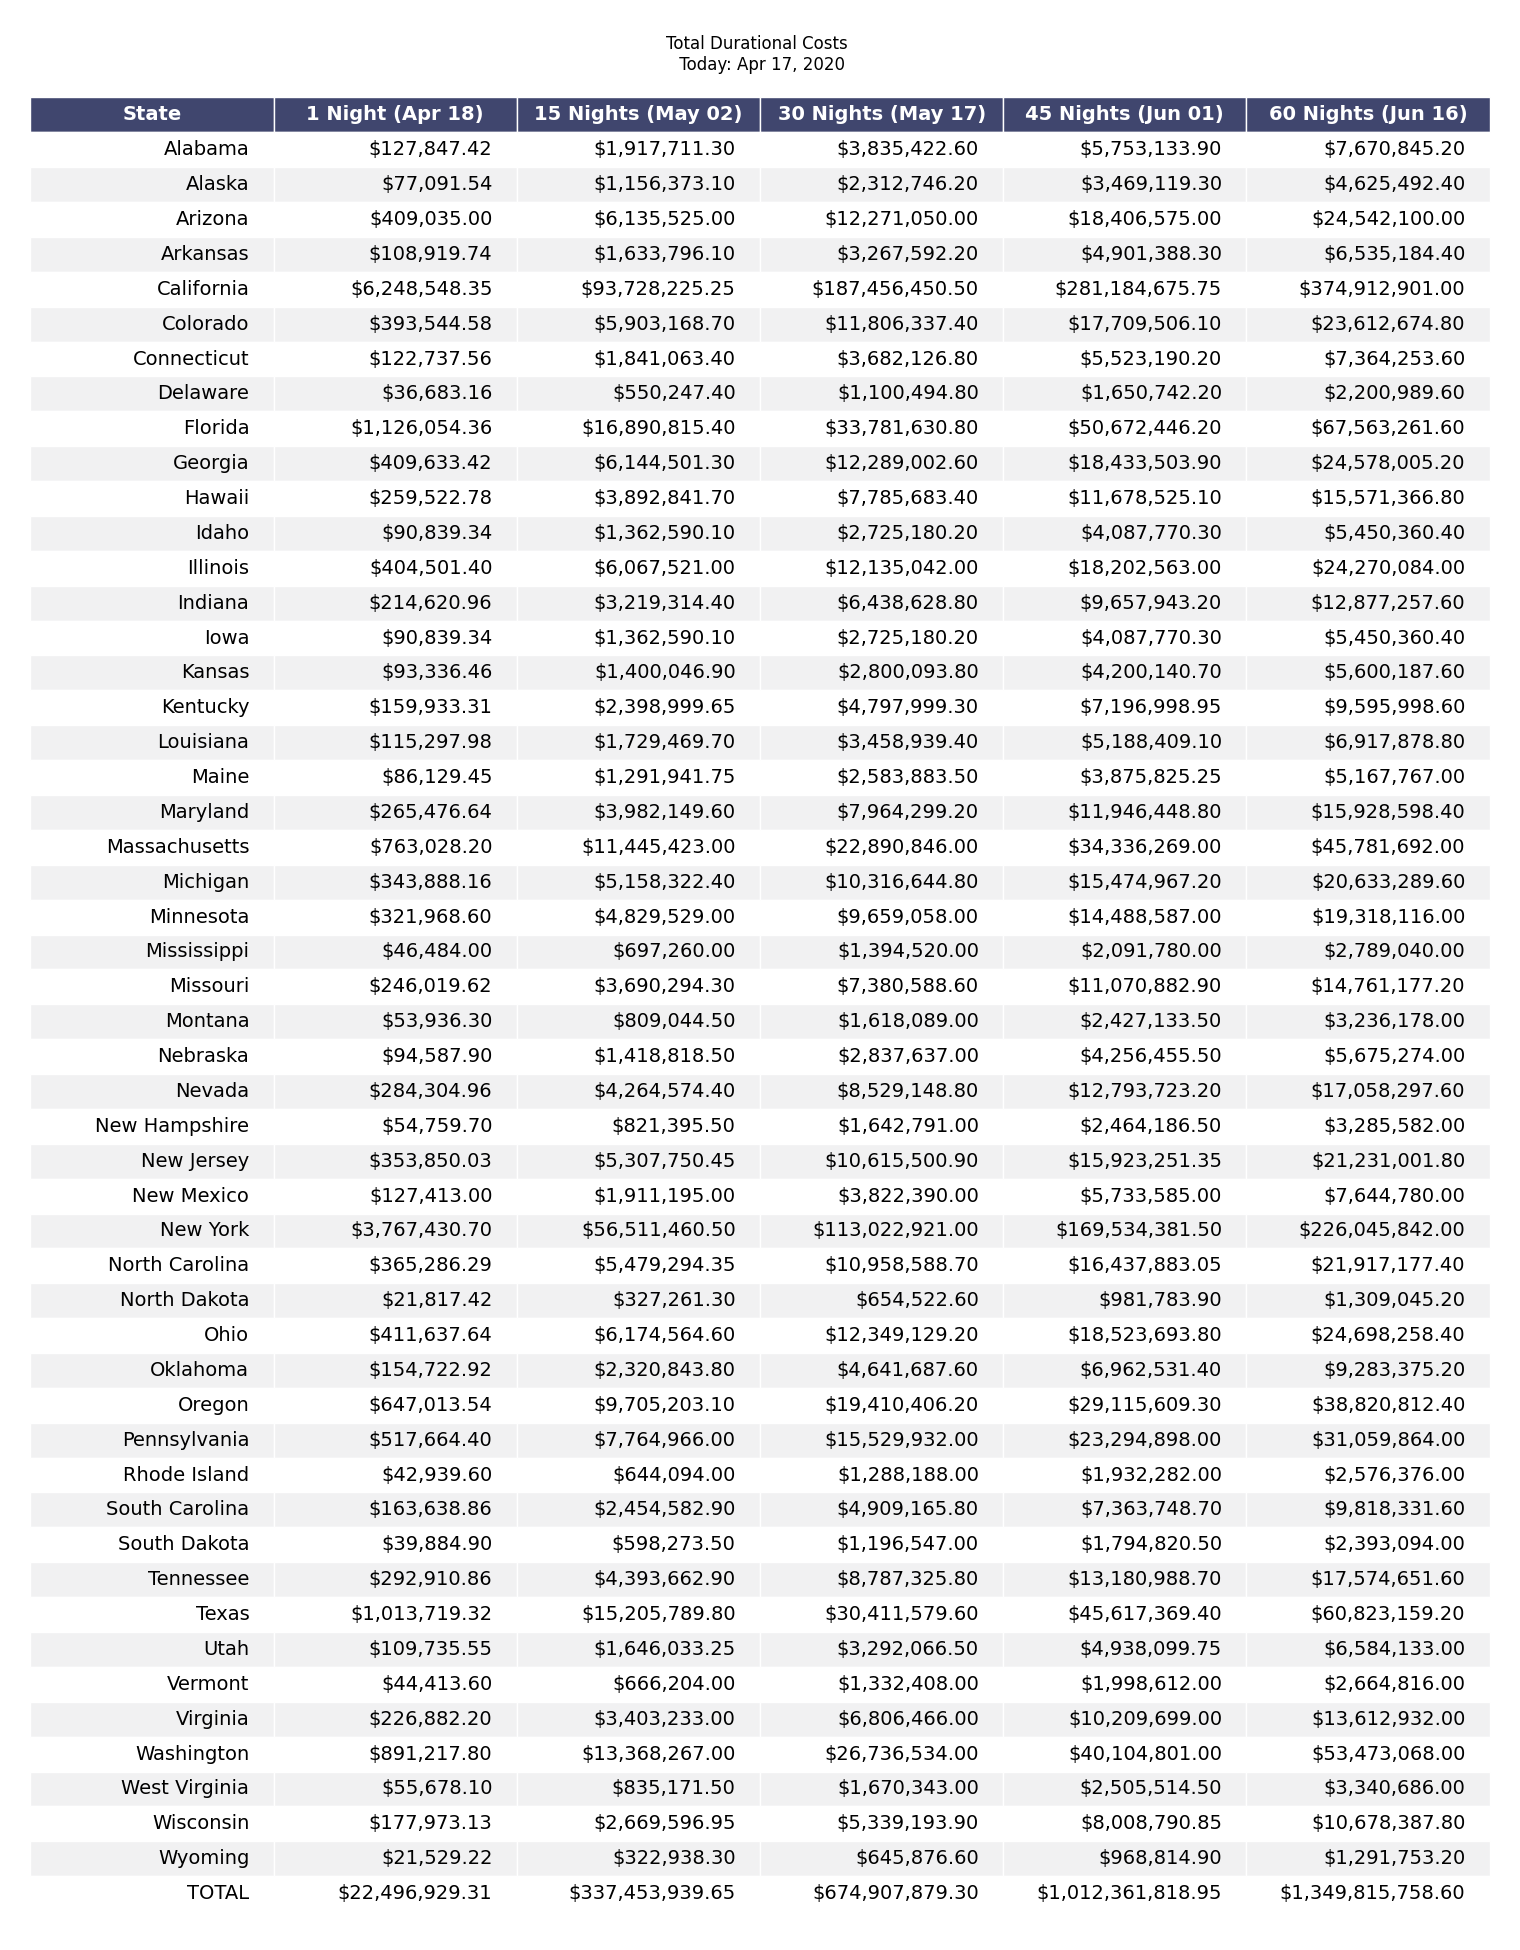
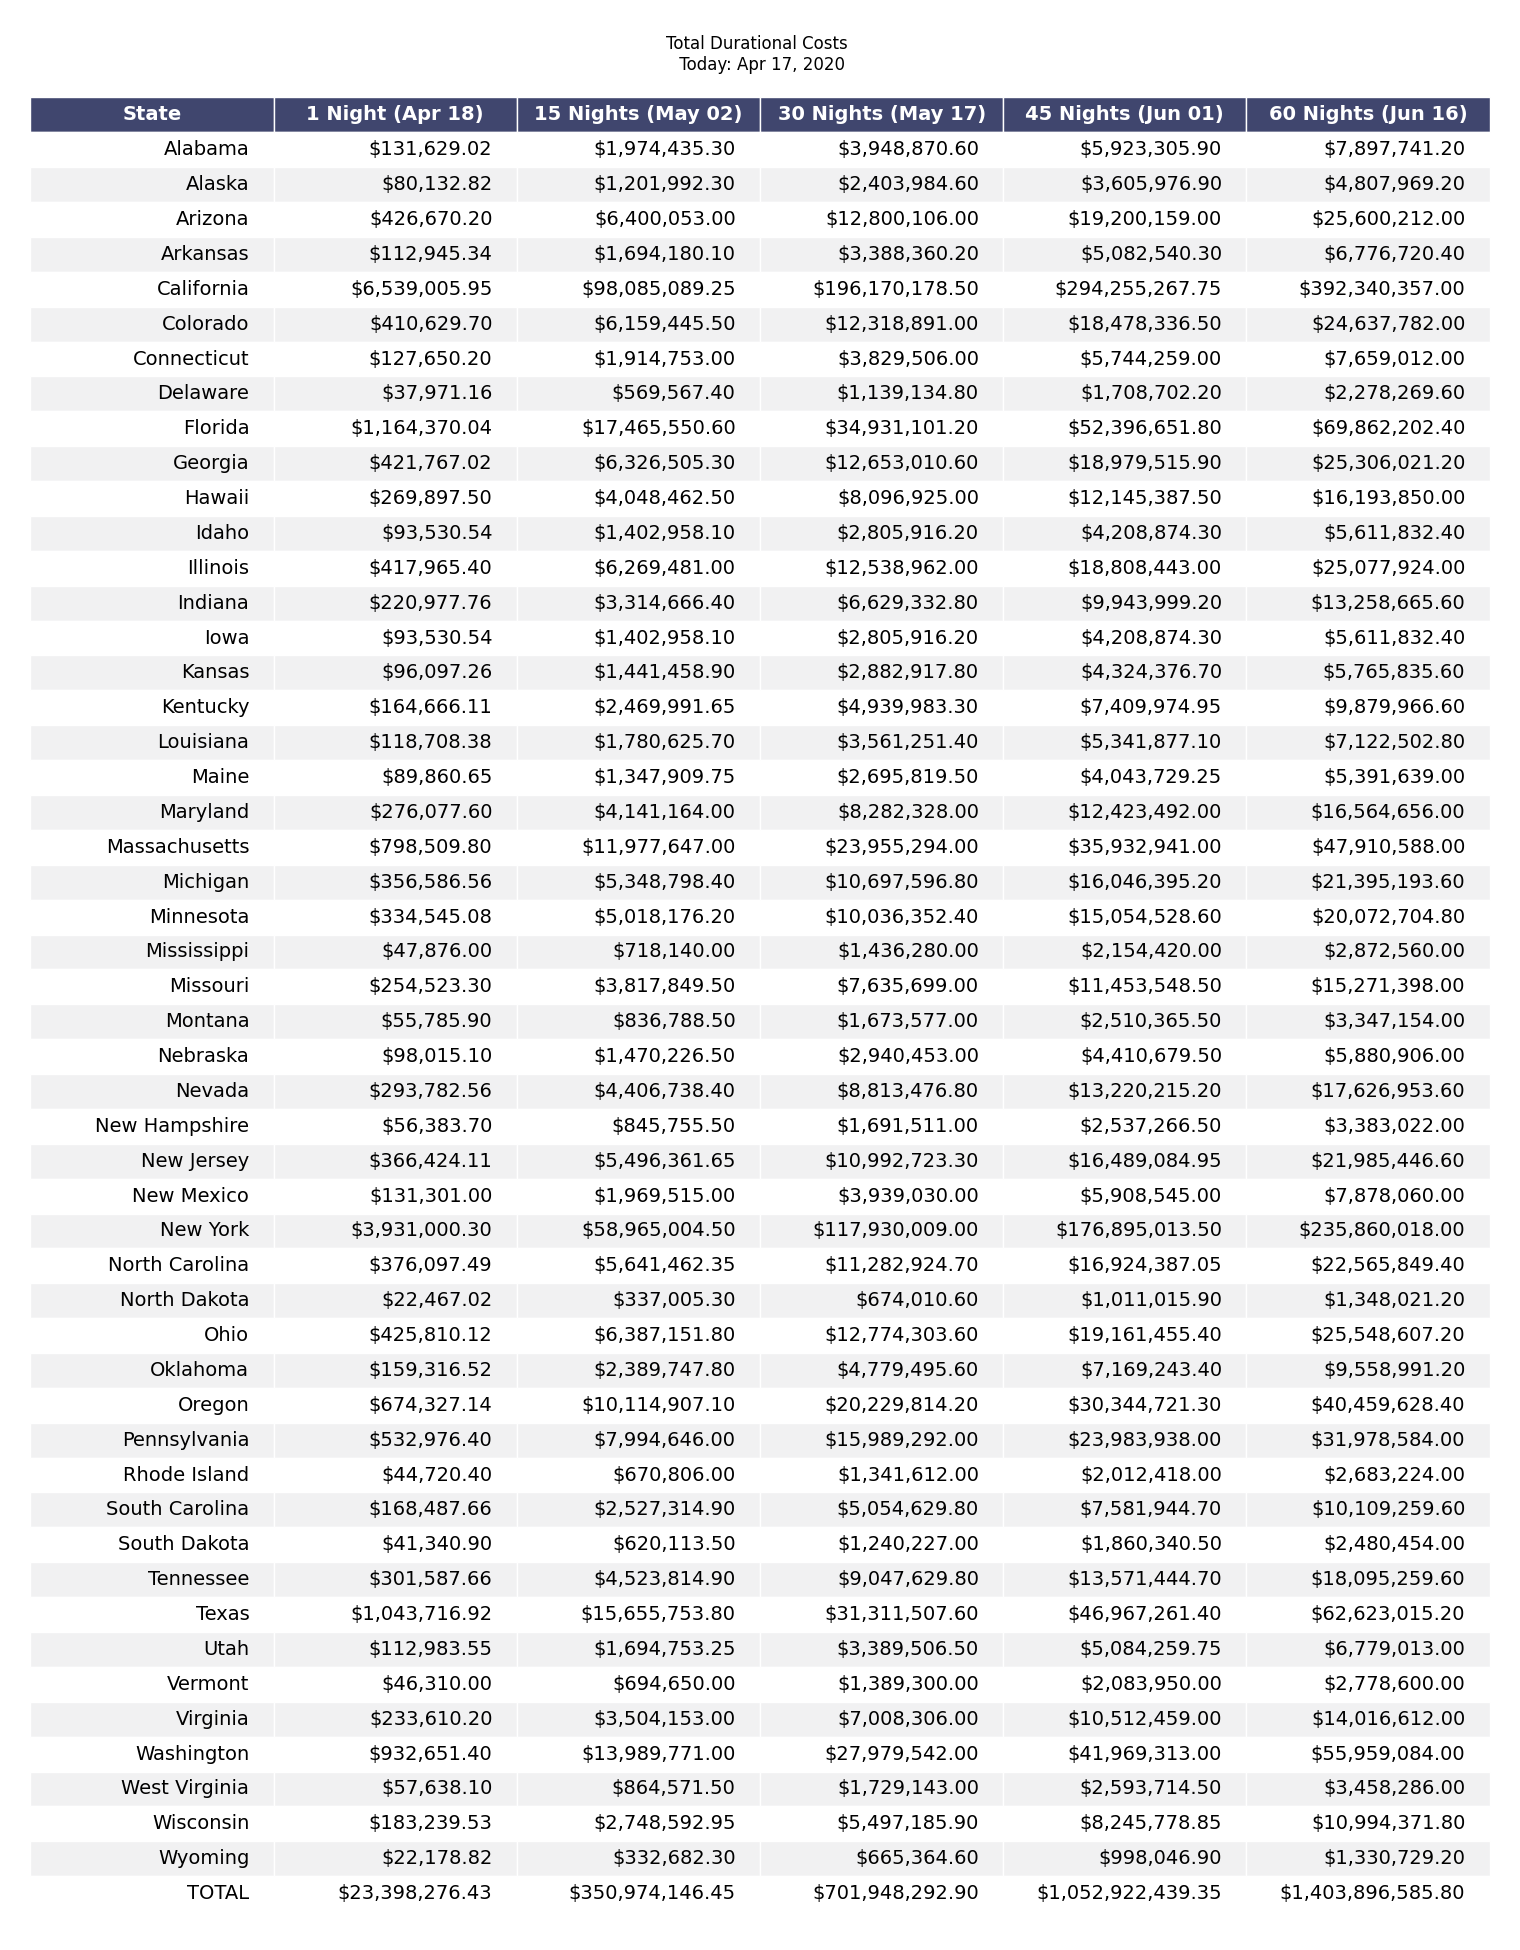
Increased minium wage inflation to 50%g

diff --git a/src/util/main.py b/src/util/main.py
@@ -390,13 +390,13 @@ class Main():
 
 if __name__ == "__main__":
     pass
-    m = Main(2, 1, 0.10, 72.05)
-    # m.homeless_pop_vs_avail_rooms(bar_viz=True)
-    # m.number_of_rooms_reserved(bar_viz=True)
-    # m.daily_employee_cost(table_viz=True, bar_viz=True)
+    m = Main(2, 1, 0.50, 72.05)
+    m.homeless_pop_vs_avail_rooms(bar_viz=True)
+    m.number_of_rooms_reserved(bar_viz=True)
+    m.daily_employee_cost(table_viz=True, bar_viz=True)
     m.daily_guest_fee(table_viz=True, bar_viz=True)
     
     m.total_daily_state_costs(table_viz=True, bar_viz=True)
     
     m.durational_total_state_costs(table_viz=True)
-    # m.daily_cost_for_state("Texas")
+    m.daily_cost_for_state("Texas")

diff --git a/README.md b/README.md
@@ -58,7 +58,7 @@ the percent composition found in the first step. Other significant factors (and 
 were taken into consideration included the following:
 1. The number of guests per room (2)
 2. The number of employees needed per 10 rooms (1)
-3. The minimum hourly wage for each state and a percentage to increase it by for working during these times (10%)
+3. The minimum hourly wage for each state and a percentage to increase it by for working during these times (50%) (Based off of HEB and Amazon paying their employees 1.5x their current hourly pay)
 4. The typical number of work hours for a hotel employee (8)
 
 With these values, the following table lays out the employee cost for each state.
@@ -98,7 +98,7 @@ This project sought to answer two questions related to a potential agreement bet
 
 To determine the estimated cost of providing housing to homeless individuals, the cost for employees and guests were calculated per day, based on number of rooms needed, typical work hours per employee, a 10% raise on minimum wage, and national average cost per hotel room. Using these estimates, the total national daily cost to house all homeless individuals is 22.5 million dollars per day, which would be 1.35 billion dollars for 60 days. While these estimates rely on somewhat conservative measures for employee pay, and the cost of reassigning guest rooms do not reflect statewide and local differences in the granular costs for each hotel room, the total cost to provide housing provides the best estimate given the available data. <br>
 
-The total cost to house the entire homeless population during this pandemic is thus miniscule compared to the fiscal stimulus packages provided by Congress. Reported in USA Today on March 25, "congressional leaders have struck a broad compromise on a third stimulus package that could reach $2 trillion and include relief for major industries such as airlines, small businesses that have seen revenues dwindle or disappear, and workers facing layoffs and loss of health coverage" (Zarracina). With the costs calculated in the project, the total financial responsibility of sheltering the entire US homeless population in hotel rooms for 60 days would be under 1.4 billion, less than 0.07% of the proposed stimulus bill. This cost is small enough that public officials ought to have added this measure for both the epidemiological and humanitarian benefits of slowing the spread of of COVID-19 and reducing the risk to vulnerable populations. <br>
+The total cost to house the entire homeless population during this pandemic is thus miniscule compared to the fiscal stimulus packages provided by Congress. Reported in USA Today on March 25, "congressional leaders have struck a broad compromise on a third stimulus package that could reach $2 trillion and include relief for major industries such as airlines, small businesses that have seen revenues dwindle or disappear, and workers facing layoffs and loss of health coverage" (Zarracina). With the costs calculated in the project, the total financial responsibility of sheltering the entire US homeless population in hotel rooms for 60 days would be under 1.4 billion, about 0.07% of the proposed stimulus bill. This cost is small enough that public officials ought to have added this measure for both the epidemiological and humanitarian benefits of slowing the spread of of COVID-19 and reducing the risk to vulnerable populations. <br>
 
 
 ## Reproduce Financial Analysis with User Defined Inputs
